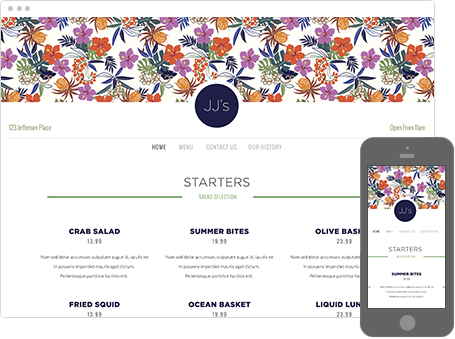
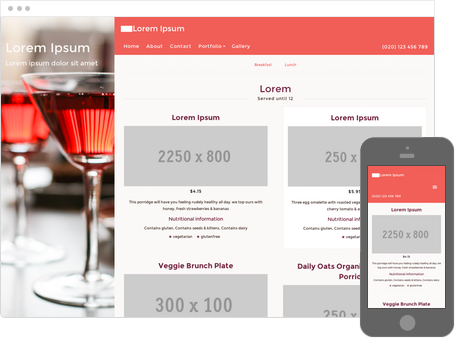
Fixes to template from feedback

diff --git a/stylesheet.less b/stylesheet.less
@@ -488,7 +488,8 @@ hr.line {
 
 .menu-item {
 	padding: 10px 40px;
-	display: inline-block;
+	float: left;
+	width: 100%;
 }
 
 .menu-item-image-wrap {
